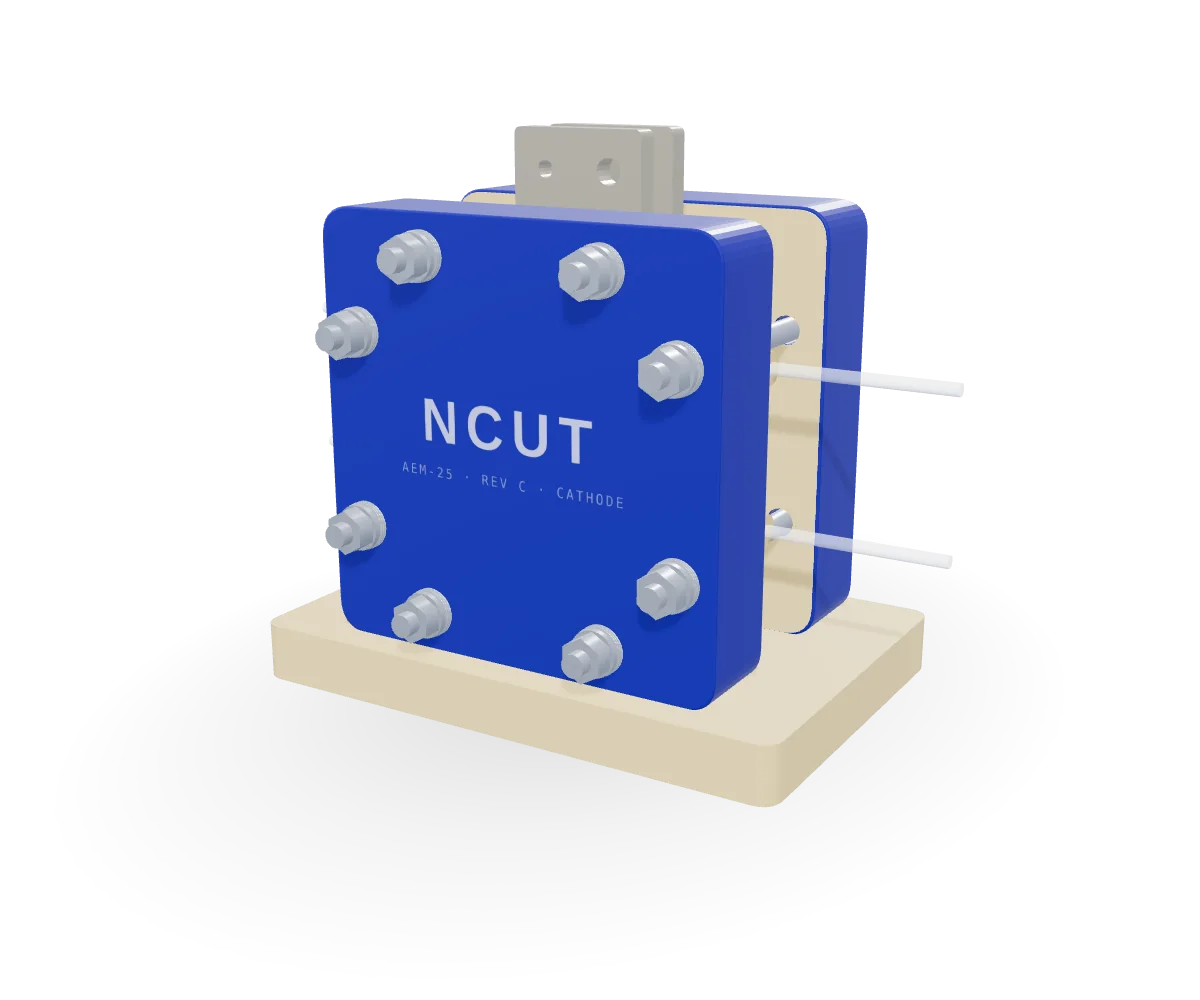
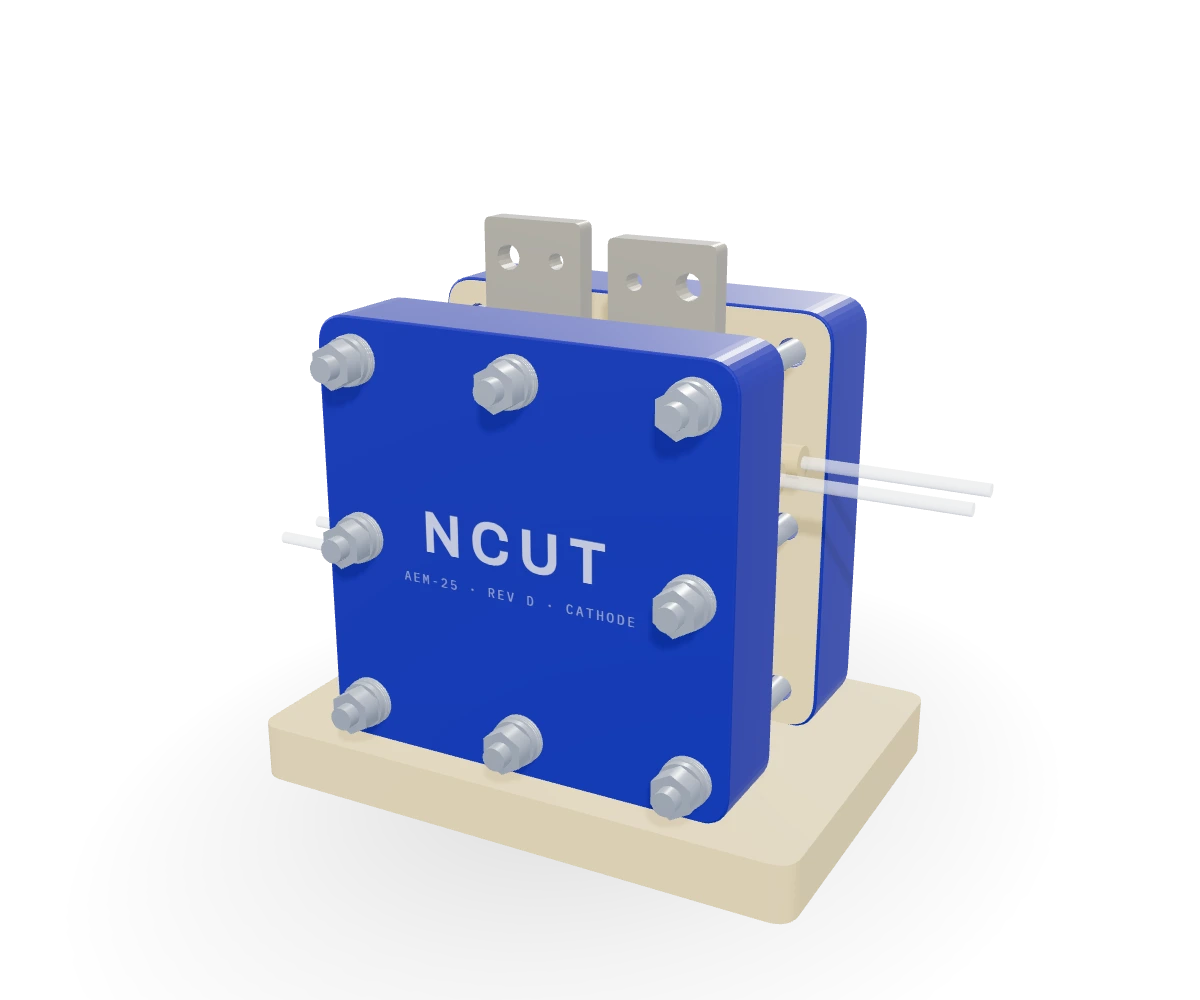
Rev D draft: tabs at opposite top corners, diagonal ports, square bolt pattern
The cathode tab moves to the top right and the anode tab to the top left,
16 mm apart. Both flow plates now run in at the lower left and out at the
upper right as seen from the cathode side, so the two flow fields are
mirror images (5 channels x 5 passes). The bolts move to the corners and
edge midpoints to clear the top edge. Figures that depend on these changes
are marked as to be recalculated.

Regenerate the hero and share images from the new model and version their
URLs so the Cloudflare image cache does not serve the old ones.

Changed region(s): [[0.2158, 0.124, 0.8017, 0.93]]

diff --git a/index.html b/index.html
@@ -10,7 +10,7 @@
 <meta property="og:title" content="AEM-25 單電池測試治具 · Single-Cell Test Fixture">
 <meta property="og:description" content="互動 3D 爆炸圖：13 個零件群組，點選即可看材料、尺寸與設計理由。Interactive 3D exploded view of 13 part groups.">
 <meta property="og:url" content="https://kungmengchien.uk/aem-25/">
-<meta property="og:image" content="https://kungmengchien.uk/aem-25/assets/img/og.png">
+<meta property="og:image" content="https://kungmengchien.uk/aem-25/assets/img/og.png?v=20261106a">
 <meta property="og:image:width" content="1200">
 <meta property="og:image:height" content="630">
 <meta name="twitter:card" content="summary_large_image">
@@ -30,22 +30,22 @@ d.lang=l==='en'?'en':'zh-Hant';if(t==='dark'||t==='light')d.dataset.theme=t;d.cl
 <link rel="preconnect" href="https://fonts.googleapis.com">
 <link rel="preconnect" href="https://fonts.gstatic.com" crossorigin>
 <link rel="stylesheet" href="https://fonts.googleapis.com/css2?family=Archivo:wdth,wght@100..125,400..700&family=IBM+Plex+Mono:wght@400;500&family=Noto+Sans+TC:wght@400;500;700&display=swap">
-<link rel="stylesheet" href="assets/css/site.css?v=20261105a">
+<link rel="stylesheet" href="assets/css/site.css?v=20261106a">
 
 <script type="importmap">
 { "imports": { "three": "./assets/vendor/three/three.module.min.js",
                "three/addons/": "./assets/vendor/three/addons/" } }
 </script>
 <link rel="modulepreload" href="assets/vendor/three/three.module.min.js">
-<script type="module" src="assets/js/app.js?v=20261105a"></script>
-<script defer src="assets/js/site.js?v=20261105a"></script>
+<script type="module" src="assets/js/app.js?v=20261106a"></script>
+<script defer src="assets/js/site.js?v=20261106a"></script>
 </head>
 <body>
 <a class="skip" href="#explore"><span class="zh">跳到爆炸圖</span><span class="en">Skip to exploded view</span></a>
 
 <header class="top">
   <div class="wrap bar">
-    <a class="brand" href="#top" aria-label="AEM-25">AEM-25<span>REV C</span></a>
+    <a class="brand" href="#top" aria-label="AEM-25">AEM-25<span>REV D</span></a>
     <nav aria-label="頁面" data-label-zh="頁面" data-label-en="Page">
       <a href="#explore"><span class="zh">爆炸圖</span><span class="en">Explore</span></a>
       <a href="#design"><span class="zh">設計</span><span class="en">Design</span></a>
@@ -66,7 +66,7 @@ d.lang=l==='en'?'en':'zh-Hant';if(t==='dark'||t==='light')d.dataset.theme=t;d.cl
 <main id="top">
   <section class="hero wrap">
     <div class="hero-txt">
-      <p class="eyebrow">AEM-25 · Rev C · 2026</p>
+      <p class="eyebrow">AEM-25 · Rev D <span class="zh">草案</span><span class="en">draft</span> · 2026</p>
       <h1><span class="zh">一片 MEA 的<br><em>25&nbsp;cm²</em> 測試治具</span><span class="en">A <em>25&nbsp;cm²</em> test fixture for one&nbsp;AEM&nbsp;cell</span></h1>
       <p class="lede zh">AEM-25 是陰離子交換膜（AEM）水電解用的單電池測試治具，在 1 M KOH、60 °C 下測一片 MEA。PTL 的壓縮量由墊片決定，電流從流道板銑出的極耳導出，一片 PEEK 把 KOH 和鋁端板隔開。</p>
       <p class="lede en">AEM-25 is a single-cell test fixture for anion exchange membrane (AEM) water electrolysis. It tests one MEA in 1 M KOH at 60 °C. Gaskets set the PTL compression, current leaves through tabs machined into the flow plates, and a PEEK sheet keeps KOH away from the aluminium end plates.</p>
@@ -81,7 +81,7 @@ d.lang=l==='en'?'en':'zh-Hant';if(t==='dark'||t==='light')d.dataset.theme=t;d.cl
       </div>
     </div>
     <figure class="hero-img">
-      <img src="assets/img/hero.webp" width="1200" height="1000" alt="AEM-25 組立後的 3D 模型：兩片藍色鋁端板夾住鎳流道板，立在底座上" data-alt-zh="AEM-25 組立後的 3D 模型：兩片藍色鋁端板夾住鎳流道板，立在底座上" data-alt-en="3D model of the assembled AEM-25: two blue aluminium end plates clamp the nickel flow plates, standing on a base" fetchpriority="high">
+      <img src="assets/img/hero.webp?v=20261106a" width="1200" height="1000" alt="AEM-25 組立後的 3D 模型：兩片藍色鋁端板夾住鎳流道板，立在底座上" data-alt-zh="AEM-25 組立後的 3D 模型：兩片藍色鋁端板夾住鎳流道板，立在底座上" data-alt-en="3D model of the assembled AEM-25: two blue aluminium end plates clamp the nickel flow plates, standing on a base" fetchpriority="high">
     </figure>
   </section>
 
@@ -136,8 +136,8 @@ d.lang=l==='en'?'en':'zh-Hant';if(t==='dark'||t==='light')d.dataset.theme=t;d.cl
         <p class="pn">AEM-25-002</p>
         <h3><span class="zh">整合式集電極耳</span><span class="en">Integrated current tabs</span></h3>
         <p class="num">2.06<u>mΩ·cm² †</u></p>
-        <p class="zh">流道板直接長出極耳，電流路徑上沒有螺栓接點。側面螺栓接點約 12–50 mΩ·cm²&nbsp;†，還會隨熱循環漂移，數據上看起來就像 MEA 在衰減。膜本身約 83 mΩ·cm²&nbsp;†。2.06 是 Rev B 用 316L 算的，Rev C 改成實心鎳，這個電阻只會更低。</p>
-        <p class="en">The tab is part of the flow plate, so no bolted joint sits in the current path. A side-bolted contact adds about 12–50 mΩ·cm²&nbsp;† and drifts with thermal cycling, which looks just like MEA degradation in the data. The membrane itself is about 83 mΩ·cm²&nbsp;†. The 2.06 figure was calculated for the 316L plate of Rev B; Rev C's solid nickel can only lower it.</p>
+        <p class="zh">流道板直接長出極耳，電流路徑上沒有螺栓接點。側面螺栓接點約 12–50 mΩ·cm²&nbsp;†，還會隨熱循環漂移，數據上看起來就像 MEA 在衰減。膜本身約 83 mΩ·cm²&nbsp;†。2.06 是 Rev B 用 316L、36 mm 寬的極耳算的；改成實心鎳後，即使 Rev D 的極耳縮成 28 mm，電阻仍會更低。</p>
+        <p class="en">The tab is part of the flow plate, so no bolted joint sits in the current path. A side-bolted contact adds about 12–50 mΩ·cm²&nbsp;† and drifts with thermal cycling, which looks just like MEA degradation in the data. The membrane itself is about 83 mΩ·cm²&nbsp;†. The 2.06 figure was calculated for the 316L plate of Rev B with a 36 mm tab; in solid nickel it stays lower even with the 28 mm tab of Rev D.</p>
         <a class="more" href="#p=fp_c" data-part="fp_c"><span class="zh">在爆炸圖看流道板</span><span class="en">See the flow plate</span> →</a>
       </article>
       <article class="card">
@@ -171,29 +171,31 @@ d.lang=l==='en'?'en':'zh-Hant';if(t==='dark'||t==='light')d.dataset.theme=t;d.cl
       <div><dt><span class="zh">MEA 區厚度</span><span class="en">MEA zone</span></dt><dd>0.558<u>mm</u></dd><p><span class="zh">兩片 10 mil 墊片加 50 µm 膜</span><span class="en">Two 10 mil gaskets plus a 50 µm membrane</span></p></div>
       <div><dt><span class="zh">PTL 面壓（估）</span><span class="en">PTL pressure (est.)</span></dt><dd><s>≈</s>0.15<u>MPa</u></dd><p><span class="zh">目標 0.18 MPa；等效模數 2.0 MPa 為假設值</span><span class="en">Target 0.18 MPa; the 2.0 MPa effective modulus is assumed</span></p></div>
       <div><dt><span class="zh">螺栓扭力</span><span class="en">Bolt torque</span></dt><dd>1.0<u>N·m</u></dd><p><span class="zh">範圍 0.8–1.2，上限 1.3</span><span class="en">Range 0.8–1.2, limit 1.3</span></p></div>
-      <div><dt><span class="zh">設計檢查</span><span class="en">Design checks</span></dt><dd>290<u><span class="zh">項</span><span class="en">items</span></u></dd><p><span class="zh">9 個 STEP 零件、80 個實體，干涉 0</span><span class="en">9 STEP parts, 80 solids, zero interference</span></p></div>
+      <div><dt><span class="zh">設計檢查</span><span class="en">Design checks</span></dt><dd>290<u><span class="zh">項</span><span class="en">items</span></u></dd><p><span class="zh">Rev C 的檢查：9 個 STEP 零件、80 個實體，干涉 0</span><span class="en">Rev C check: 9 STEP parts, 80 solids, zero interference</span></p></div>
     </dl>
   </section>
 
   <section id="specs" class="sec wrap" aria-labelledby="specs-h">
     <div class="sec-head">
       <h2 id="specs-h"><span class="zh">規格</span><span class="en">Specifications</span></h2>
-      <p class="zh">Rev C，2026-10-14。標 † 的項目沿用 Rev B 的計算值。</p>
-      <p class="en">Rev C, 2026-10-14. Items marked † carry over Rev B calculations.</p>
+      <p class="zh">Rev D 草案，2026-11-06：極耳、進出口、流道和螺栓排列已改，其餘同 Rev C（2026-10-14）。標 † 的項目沿用 Rev B 的計算值，標「待重算」的還沒有新數字。</p>
+      <p class="en">Rev D draft, 2026-11-06: the tabs, ports, flow field and bolt pattern changed; everything else is as in Rev C (2026-10-14). Items marked † carry over Rev B calculations; items marked “to be recalculated” have no new figure yet.</p>
     </div>
     <dl class="spec">
       <div><dt><span class="zh">活性面積</span><span class="en">Active area</span></dt><dd>50 × 50 mm = 25.0 cm²</dd></div>
       <div><dt>MEA</dt><dd><span class="zh">66 × 66 mm，膜厚 50 µm</span><span class="en">66 × 66 mm, 50 µm membrane</span></dd></div>
       <div><dt><span class="zh">墊片</span><span class="en">Gaskets</span></dt><dd>PTFE, 10 + 10 mil (0.254 mm × 2)<small><span class="zh">另備 9／11 mil</span><span class="en">9 and 11 mil spares</span></small></dd></div>
       <div><dt>PTL</dt><dd><span class="zh">陰陽極皆為鎳氈</span><span class="en">Nickel felt on both sides</span></dd></div>
-      <div><dt><span class="zh">流道板</span><span class="en">Flow plates</span></dt><dd><span class="zh">實心鎳，80 × 80 × 15 mm</span><span class="en">Solid nickel, 80 × 80 × 15 mm</span><small><span class="zh">4 通道蛇形 × 6 道次，24 條 1.00 × 1.00 mm，總長 328 mm</span><span class="en">4-channel serpentine × 6 passes, 24 × 1.00 × 1.00 mm, 328 mm total</span></small></dd></div>
+      <div><dt><span class="zh">流道板</span><span class="en">Flow plates</span></dt><dd><span class="zh">實心鎳，80 × 80 × 15 mm</span><span class="en">Solid nickel, 80 × 80 × 15 mm</span><small><span class="zh">5 通道蛇形 × 5 道次，25 條 1.00 × 1.00 mm，總長約 280 mm（待重算）</span><span class="en">5-channel serpentine × 5 passes, 25 × 1.00 × 1.00 mm, about 280 mm total (to be recalculated)</span></small></dd></div>
+      <div><dt><span class="zh">集電極耳</span><span class="en">Current tabs</span></dt><dd><span class="zh">28 × 34 × 6 mm，在上緣一側，陰極在右、陽極在左</span><span class="en">28 × 34 × 6 mm at one end of the top edge, cathode on the right and anode on the left</span><small><span class="zh">從陰極側看；兩個極耳相隔 16 mm</span><span class="en">Seen from the cathode side; the tabs sit 16 mm apart</span></small></dd></div>
+      <div><dt><span class="zh">進出口</span><span class="en">Ports</span></dt><dd><span class="zh">2 × 1/4-28 UNF，兩片都左下進、右上出</span><span class="en">2 × 1/4-28 UNF; both plates in at lower left, out at upper right</span><small><span class="zh">從陰極側看；兩片流道互為鏡像，是兩個零件</span><span class="en">Seen from the cathode side; the two flow fields are mirror images, so they are two parts</span></small></dd></div>
       <div><dt><span class="zh">端板</span><span class="en">End plates</span></dt><dd><span class="zh">6061-T6 鋁硬陽，110 × 110 × 25 mm，R8</span><span class="en">6061-T6 aluminium, hard-anodised, 110 × 110 × 25 mm, R8</span></dd></div>
       <div><dt><span class="zh">絕緣／化學屏障</span><span class="en">Insulation / chemical barrier</span></dt><dd>PEEK, 110 × 110 × 0.5 mm</dd></div>
-      <div><dt><span class="zh">夾持</span><span class="en">Clamping</span></dt><dd><span class="zh">8 × M6 × 100 A4-70，絕緣套管，每支 3 片碟簧</span><span class="en">8 × M6 × 100 A4-70, insulating sleeves, 3 disc springs per bolt</span><small><span class="zh">扭力 1.0 N·m（0.8–1.2，上限 1.3）</span><span class="en">Torque 1.0 N·m (0.8–1.2, limit 1.3)</span></small></dd></div>
+      <div><dt><span class="zh">夾持</span><span class="en">Clamping</span></dt><dd><span class="zh">8 × M6 × 100 A4-70，排在四角和四邊中點，絕緣套管，每支 3 片碟簧</span><span class="en">8 × M6 × 100 A4-70 at the corners and edge midpoints, insulating sleeves, 3 disc springs per bolt</span><small><span class="zh">扭力 1.0 N·m（0.8–1.2，上限 1.3）；螺栓排列改了，墊片受力分布待重算</span><span class="en">Torque 1.0 N·m (0.8–1.2, limit 1.3); the bolt pattern changed, so gasket load distribution is to be recalculated</span></small></dd></div>
       <div><dt><span class="zh">電解液</span><span class="en">Electrolyte</span></dt><dd>1 M KOH (≈ 5.4 wt.%), 60 °C</dd></div>
       <div><dt><span class="zh">加熱</span><span class="en">Heating</span></dt><dd><span class="zh">4 × 100 W 筒式加熱器 †</span><span class="en">4 × 100 W cartridge heaters †</span></dd></div>
       <div><dt><span class="zh">額定電流</span><span class="en">Rated current</span></dt><dd>50 A @ 2 A/cm² †</dd></div>
-      <div><dt><span class="zh">液相壓損</span><span class="en">Liquid pressure drop</span></dt><dd>1.52 kPa @ 60 mL/min †</dd></div>
+      <div><dt><span class="zh">液相壓損</span><span class="en">Liquid pressure drop</span></dt><dd><span class="zh">待重算</span><span class="en">To be recalculated</span><small><span class="zh">Rev B 的 6 道次為 1.52 kPa @ 60 mL/min †；5 道次等比例粗估約 1.0 kPa</span><span class="en">Rev B's six passes gave 1.52 kPa @ 60 mL/min †; scaling to five passes gives roughly 1.0 kPa</span></small></dd></div>
       <div><dt><span class="zh">壓力</span><span class="en">Pressure</span></dt><dd>≤ 1 bar(g) †<small><span class="zh">只靠墊片密封，不可加壓運轉</span><span class="en">Gasket seal only; not for pressurised operation</span></small></dd></div>
     </dl>
   </section>
@@ -201,11 +203,11 @@ d.lang=l==='en'?'en':'zh-Hant';if(t==='dark'||t==='light')d.dataset.theme=t;d.cl
 
 <footer class="foot">
   <div class="wrap">
-    <p class="zh"><b>設計階段。</b>AEM-25 尚未加工，頁面上的數字來自 2026-10-14 的 Rev C 設計文件。3D 模型由程式依設計尺寸生成；爆炸圖中 MEA 各層有加厚，才看得見。</p>
-    <p class="en"><b>Design stage.</b> AEM-25 has not been machined yet. Figures on this page come from the Rev C design documents dated 2026-10-14. The 3D model is generated in code from the design dimensions; the exploded view draws the MEA layers thicker so you can see them.</p>
+    <p class="zh"><b>設計階段。</b>AEM-25 尚未加工。頁面上的數字來自 2026-10-14 的 Rev C 設計文件；2026-11-06 的 Rev D 草案改了極耳、進出口、流道和螺栓排列，受影響的數字標「待重算」。3D 模型由程式依設計尺寸生成；爆炸圖中 MEA 各層有加厚，才看得見。</p>
+    <p class="en"><b>Design stage.</b> AEM-25 has not been machined yet. Figures on this page come from the Rev C design documents dated 2026-10-14; the Rev D draft of 2026-11-06 changed the tabs, ports, flow field and bolt pattern, and the figures it affects are marked “to be recalculated”. The 3D model is generated in code from the design dimensions; the exploded view draws the MEA layers thicker so you can see them.</p>
     <p class="zh">端板上的 NCUT 是示意字樣，不是國立勤益科技大學的官方標誌。</p>
     <p class="en">The NCUT lettering on the end plate is a placeholder, not the official mark of National Chin-Yi University of Technology.</p>
-    <p class="meta"><span class="zh">設計與網站：龔孟謙</span><span class="en">Design &amp; site: Meng-Chien Kung</span> · <a class="zh" href="https://kungmengchien.uk/">kungmengchien.uk</a><a class="en" href="https://kungmengchien.uk/en/">kungmengchien.uk</a> · <a href="https://github.com/kungmengchien0814/aem-25">GitHub</a> · 3D: <a href="https://threejs.org/">three.js</a> r160 (MIT) · <span class="zh">更新於</span><span class="en">Updated</span> 2026-11-05</p>
+    <p class="meta"><span class="zh">設計與網站：龔孟謙</span><span class="en">Design &amp; site: Meng-Chien Kung</span> · <a class="zh" href="https://kungmengchien.uk/">kungmengchien.uk</a><a class="en" href="https://kungmengchien.uk/en/">kungmengchien.uk</a> · <a href="https://github.com/kungmengchien0814/aem-25">GitHub</a> · 3D: <a href="https://threejs.org/">three.js</a> r160 (MIT) · <span class="zh">更新於</span><span class="en">Updated</span> 2026-11-06</p>
   </div>
 </footer>
 </body>

diff --git a/assets/js/app.js b/assets/js/app.js
@@ -3,7 +3,7 @@
  * 依賴：index.html 的 importmap（three、three/addons）、content.js（零件文字）。 */
 import * as THREE from 'three';
 import { OrbitControls } from 'three/addons/controls/OrbitControls.js';
-import { PARTS, UI } from './content.js?v=20261105a';
+import { PARTS, UI } from './content.js?v=20261106a';
 
 const $ = id => document.getElementById(id);
 const ZK = /Mac|iPhone|iPad/.test((navigator.userAgentData && navigator.userAgentData.platform) || navigator.platform || '') ? '⌘' : 'Ctrl';
@@ -35,14 +35,16 @@ function init(){
   renderer.shadowMap.enabled = true;
   renderer.shadowMap.type = THREE.PCFSoftShadowMap;
 
-  /* ═══ DATA: 幾何（AEM-25 Rev C，mm） ═══ */
+  /* ═══ DATA: 幾何（AEM-25 Rev D 草案，mm） ═══
+   * Rev D 相對 Rev C：極耳移到上緣一側（像「凹」去掉一邊），兩片一左一右；
+   * 進出口改成對角，流道改 5 道次；螺栓改成四角加四邊中點，讓出上緣給極耳。 */
   const MIL = 0.0254;
   const GEO = {
     ep: 110, ep_t: 25, ep_r: 8, fp: 80, fp_t: 15, ins_t: 0.5,
     gasket: 10 * MIL, mem: 0.050, mea: 66, active: 50,
-    tab_w: 36, tab_top: 74, tab_t: 6, lug: [-9, 64], sense: [9, 64],
+    tab_x: -22, tab_w: 28, tab_top: 74, tab_t: 6, lug: [-29, 64], sense: [-15, 64],
     ports_y: [-20, 20], base: [150, 100, 15],
-    bolts: [[-25,-45],[25,-45],[-45,-25],[45,-25],[-45,25],[45,25],[-25,45],[25,45]],
+    bolts: [[-45,-45],[0,-45],[45,-45],[-45,0],[45,0],[-45,45],[0,45],[45,45]],
   };
   const MEAZ = 2 * GEO.gasket + GEO.mem;                         // 0.558
   const Z = {
@@ -143,11 +145,12 @@ function init(){
   /* ── 貼圖 ── */
   const faceCv = document.createElement('canvas'); faceCv.width = faceCv.height = 1024;
   const chCv = document.createElement('canvas'); chCv.width = chCv.height = 1024;
-  const faceTex = new THREE.CanvasTexture(faceCv), chTex = new THREE.CanvasTexture(chCv);
-  [faceTex, chTex].forEach(t => { t.colorSpace = THREE.SRGBColorSpace; t.anisotropy = 4; });
-  /* 流道：4 通道並聯 × 6 道次，24 條 1 × 1 mm，節距 2 mm */
+  const chCvM = document.createElement('canvas'); chCvM.width = chCvM.height = 1024;
+  const faceTex = new THREE.CanvasTexture(faceCv), chTex = new THREE.CanvasTexture(chCv), chTexM = new THREE.CanvasTexture(chCvM);
+  [faceTex, chTex, chTexM].forEach(t => { t.colorSpace = THREE.SRGBColorSpace; t.anisotropy = 4; });
+  /* 流道：5 通道並聯 × 5 道次，25 條 1 × 1 mm，節距 2 mm。道次是奇數，出口才會在進口的對角 */
   const CH = (() => {
-    const r = [], n = 24, Pt = 2, y0 = -23, xs = 23, hs = 25, np = 4, npass = 6;
+    const r = [], np = 5, npass = 5, n = np * npass, Pt = 2, y0 = -24, xs = 23, hs = 25;
     for (let k = 0; k < n; k++) r.push([-xs, y0 + Pt*k - .5, xs, y0 + Pt*k + .5]);
     const bun = []; for (let j = 0; j < npass; j++) bun.push([y0 + Pt*np*j, y0 + Pt*(np*j + np - 1)]);
     r.push([-hs, bun[0][0] - .5, -21, bun[0][1] + .5]);
@@ -155,7 +158,8 @@ function init(){
       const lo = bun[j][0] - .5, hi = bun[j+1][1] + .5;
       r.push(j % 2 === 0 ? [xs, lo, hs, hi] : [-hs, lo, -xs, hi]);
     }
-    const last = bun[npass-1]; r.push([-hs, last[0] - .5, -21, last[1] + .5]);
+    const last = bun[npass-1];
+    r.push(npass % 2 ? [21, last[0] - .5, hs, last[1] + .5] : [-hs, last[0] - .5, -21, last[1] + .5]);
     return r;
   })();
   function drawDecals(){
@@ -167,16 +171,18 @@ function init(){
     g.fillText('NCUT', 512, 470);
     if ('letterSpacing' in g) g.letterSpacing = '6px';
     g.fillStyle = 'rgba(226,232,255,.62)'; g.font = '500 34px "IBM Plex Mono", monospace';
-    g.fillText('AEM-25 · REV C · CATHODE', 512, 590);
+    g.fillText('AEM-25 · REV D · CATHODE', 512, 590);
     if ('letterSpacing' in g) g.letterSpacing = '0px';
     faceTex.needsUpdate = true;
-    g = chCv.getContext('2d'); g.clearRect(0, 0, 1024, 1024);
     const px = v => (v + 40) / 80 * 1024, py = v => (40 - v) / 80 * 1024;
-    g.fillStyle = dark ? 'rgba(10,12,16,.62)' : 'rgba(40,36,30,.5)';
-    for (const [x0, y0, x1, y1] of CH) g.fillRect(px(x0), py(y1), px(x1) - px(x0), py(y0) - py(y1));
-    g.setLineDash([10, 8]); g.lineWidth = 3; g.strokeStyle = 'rgba(14,143,114,.75)';
-    g.strokeRect(px(-25), py(25), px(25) - px(-25), py(-25) - py(25)); g.setLineDash([]);
-    chTex.needsUpdate = true;
+    for (const [cv, s] of [[chCv, 1], [chCvM, -1]]){   // chCvM：陰極那片的鏡像流道
+      g = cv.getContext('2d'); g.clearRect(0, 0, 1024, 1024);
+      g.fillStyle = dark ? 'rgba(10,12,16,.62)' : 'rgba(40,36,30,.5)';
+      for (const [x0, y0, x1, y1] of CH){ const a = px(s * x0), b = px(s * x1); g.fillRect(Math.min(a, b), py(y1), Math.abs(b - a), py(y0) - py(y1)); }
+      g.setLineDash([10, 8]); g.lineWidth = 3; g.strokeStyle = 'rgba(14,143,114,.75)';
+      g.strokeRect(px(-25), py(25), px(25) - px(-25), py(-25) - py(25)); g.setLineDash([]);
+    }
+    chTex.needsUpdate = chTexM.needsUpdate = true;
   }
 
   /* ── 建模 ── */
@@ -196,21 +202,26 @@ function init(){
     add(p, new THREE.Mesh(extrude(sh, GEO.ins_t), matOf(p, 'peek')));
     anchor(p, id === 'ins_c' ? -38 : 38, 62, 0);
   }
-  function buildFlow(p){
+  /* 陰極那片是陽極的鏡像零件：流道和進出口左右相反，極耳在同一側。
+   * 轉 180° 裝上後，從同一側看兩片都是左下進、右上出，極耳一左一右。 */
+  function buildFlow(p, mirror){
+    const s = mirror ? -1 : 1, t0 = GEO.tab_x - GEO.tab_w/2, t1 = GEO.tab_x + GEO.tab_w/2;
     add(p, new THREE.Mesh(extrude(rrect(GEO.fp, GEO.fp, 1), GEO.fp_t), matOf(p, 'nickel')));
     const tab = new THREE.Shape();
-    tab.moveTo(-GEO.tab_w/2, 39); tab.lineTo(GEO.tab_w/2, 39); tab.lineTo(GEO.tab_w/2, GEO.tab_top - 2);
-    tab.quadraticCurveTo(GEO.tab_w/2, GEO.tab_top, GEO.tab_w/2 - 2, GEO.tab_top);
-    tab.lineTo(-GEO.tab_w/2 + 2, GEO.tab_top); tab.quadraticCurveTo(-GEO.tab_w/2, GEO.tab_top, -GEO.tab_w/2, GEO.tab_top - 2);
-    tab.lineTo(-GEO.tab_w/2, 39);
+    tab.moveTo(t0, 39); tab.lineTo(t1, 39); tab.lineTo(t1, GEO.tab_top - 2);
+    tab.quadraticCurveTo(t1, GEO.tab_top, t1 - 2, GEO.tab_top);
+    tab.lineTo(t0 + 2, GEO.tab_top); tab.quadraticCurveTo(t0, GEO.tab_top, t0, GEO.tab_top - 2);
+    tab.lineTo(t0, 39);
     tab.holes.push(hole(GEO.lug[0], GEO.lug[1], 3.3), hole(GEO.sense[0], GEO.sense[1], 2.15));
     add(p, new THREE.Mesh(extrude(tab, GEO.tab_t), matOf(p, 'nickel')));
-    decal(p, chTex, GEO.fp, GEO.fp_t/2 + .06);
-    for (const y of GEO.ports_y){ rodX(p, CYL, 'nut', 4.2, 12, -46, y, 0); rodX(p, CYL, 'tube', 1.6, 46, -75, y, 0); }
-    anchor(p, 0, 80, 0);
+    decal(p, mirror ? chTexM : chTex, GEO.fp, GEO.fp_t/2 + .06);
+    const [yIn, yOut] = GEO.ports_y;
+    rodX(p, CYL, 'nut', 4.2, 12, -46 * s, yIn, 0); rodX(p, CYL, 'tube', 1.6, 46, -75 * s, yIn, 0);
+    rodX(p, CYL, 'nut', 4.2, 12, 46 * s, yOut, 0); rodX(p, CYL, 'tube', 1.6, 46, 75 * s, yOut, 0);
+    anchor(p, GEO.tab_x, 80, 0);
   }
-  buildFlow(plate('fp_a', Z.fp_a));
-  const fpc = plate('fp_c', Z.fp_c); buildFlow(fpc); fpc.group.rotation.y = Math.PI;
+  buildFlow(plate('fp_a', Z.fp_a), false);
+  const fpc = plate('fp_c', Z.fp_c); buildFlow(fpc, true); fpc.group.rotation.y = Math.PI;
 
   /* MEA 夾層：實際合計 0.558 mm；拆開時加厚顯示 */
   const windowed = () => { const s = rrect(79.4, 79.4, 1); s.holes.push(new THREE.Path(rrect(GEO.active, GEO.active, .5).getPoints(8))); return s; };
@@ -244,7 +255,7 @@ function init(){
     rodZ(B, CYL, 'steel', 6, 1.6, x, y, Z.ep_c[1] + 2.4 + .8, nuts);
     rodZ(B, HEX, 'steel', 5.77, 5.2, x, y, Z.ep_c[1] + 4.0 + 2.6, nuts);
   }
-  anchor(B, 25, 45, Z.ep_c[1] + 9.5, nuts);
+  anchor(B, 45, -45, Z.ep_c[1] + 9.5, nuts);
 
   const baseY = -GEO.ep/2 - GEO.base[2]/2, BS = P.base; world.add(BS.group);
   { const m = add(BS, new THREE.Mesh(extrude(rrect(GEO.base[0], GEO.base[1], 6), GEO.base[2]), matOf(BS, 'base')));
@@ -566,5 +577,14 @@ function init(){
   document.body.classList.add('gl-ready');
   requestAnimationFrame(loop);
   window.AEM = { select, setExplode: v => { tw = null; setE(v); }, parts: () => Object.keys(P),
-    setView: (pos, tgt) => { userMoved = true; camTw = null; camera.position.set(...pos); controls.target.set(...tgt); needs = true; } };
+    setView: (pos, tgt) => { userMoved = true; camTw = null; camera.position.set(...pos); controls.target.set(...tgt); needs = true; },
+    /* 重新產生首圖、分享圖用：以目前視角輸出 w × h 的透明背景圖，e 是拆開程度 */
+    snap: (w, h, e = E, type = 'image/png') => {
+      const pr = renderer.getPixelRatio(), keepE = E, keepPos = camera.position.clone();
+      tw = null; setE(e); renderer.setPixelRatio(1); renderer.setSize(w, h, false);
+      camera.aspect = w / h; camera.updateProjectionMatrix(); if (!userMoved) camera.position.copy(homePos());
+      controls.update(); applyExplode(); scene.updateMatrixWorld(); renderer.render(scene, camera);
+      const url = renderer.domElement.toDataURL(type, .92);
+      setE(keepE); camera.position.copy(keepPos); renderer.setPixelRatio(pr); resize(); return url;
+    } };
 }

diff --git a/assets/js/content.js b/assets/js/content.js
@@ -1,5 +1,6 @@
-/* AEM-25 Rev C 零件資料（中／英）
+/* AEM-25 Rev D 草案零件資料（中／英）
  * 數字來源：AEM-25 設計審查與 Rev C 實作紀錄（2026-10-14）。
+ * Rev D 草案（2026-11-06）改了極耳、進出口、流道和螺栓排列，受影響的數字標「待重算」。
  * 改數字時，index.html 的「關鍵數字」與「規格」兩段也要一起改。 */
 
 export const PARTS = [
@@ -9,7 +10,7 @@ export const PARTS = [
     mat:  { zh: '6061-T6 鋁，硬陽極處理（藍）', en: '6061-T6 aluminium, hard-anodised (blue)' },
     dims: [
       { k: { zh: '外形', en: 'Size' }, v: '110 × 110 × 25 mm, R8' },
-      { k: { zh: '螺栓孔', en: 'Bolt holes' }, v: { zh: '8 個 M6，半徑 51.48 mm 圓周', en: '8 × M6 on a 51.48 mm radius' } },
+      { k: { zh: '螺栓孔', en: 'Bolt holes' }, v: { zh: '8 個 M6，四角加四邊中點（邊長 90 mm）', en: '8 × M6 at the corners and edge midpoints of a 90 mm square' } },
     ],
     desc: {
       zh: '承受八支螺栓的夾持力，筒式加熱器也裝在端板裡。鋁的導熱係數 167 W/m·K，約是 316L 的十倍，整片也輕得多。代價是鋁會被 KOH 溶解，所以端板從頭到尾不接觸電解液。',
@@ -34,15 +35,15 @@ export const PARTS = [
     mat:  { zh: '實心鎳', en: 'Solid nickel' },
     dims: [
       { k: { zh: '外形', en: 'Size' }, v: '80 × 80 × 15 mm' },
-      { k: { zh: '極耳', en: 'Tab' }, v: '36 × 34 × 6 mm' },
-      { k: { zh: '流道', en: 'Channels' }, v: { zh: '24 條 1.00 × 1.00 mm，總長 328 mm', en: '24 × 1.00 × 1.00 mm, 328 mm total' } },
-      { k: { zh: '進出口', en: 'Ports' }, v: '2 × 1/4-28 UNF' },
+      { k: { zh: '極耳', en: 'Tab' }, v: { zh: '28 × 34 × 6 mm，上緣右側', en: '28 × 34 × 6 mm, top right' } },
+      { k: { zh: '流道', en: 'Channels' }, v: { zh: '25 條 1.00 × 1.00 mm，總長約 280 mm', en: '25 × 1.00 × 1.00 mm, about 280 mm total' } },
+      { k: { zh: '進出口', en: 'Ports' }, v: { zh: '2 × 1/4-28 UNF，左下進、右上出', en: '2 × 1/4-28 UNF, in at lower left, out at upper right' } },
     ],
     desc: {
-      zh: '流道是 4 通道並聯的蛇形，走 6 個來回，電解液下進上出。極耳從板厚正中央直接銑出來：M6 孔接電流，Ø4.3 孔接四線量測的電壓線，量電壓的線上沒有電流。',
-      en: 'A four-channel serpentine runs six passes, with electrolyte entering at the bottom and leaving at the top. The current tab is machined from the mid-thickness of the plate: the M6 hole carries current and the Ø4.3 hole takes the four-wire voltage sense lead, which carries none.'
+      zh: '流道是 5 通道並聯的蛇形，走 5 個道次，電解液左下進、右上出。道次是奇數，出口才會落在進口的對角。極耳在上緣右側，從板厚正中央直接銑出來：M6 孔接電流，Ø4.3 孔接四線量測的電壓線，量電壓的線上沒有電流。',
+      en: 'A five-channel serpentine runs five passes, with electrolyte entering at the lower left and leaving at the upper right. An odd number of passes is what puts the outlet diagonally opposite the inlet. The current tab sits at the top right, machined from the mid-thickness of the plate: the M6 hole carries current and the Ø4.3 hole takes the four-wire voltage sense lead, which carries none.'
     },
-    note: { zh: '陰陽極兩片是同一個零件，這片轉 180° 裝，所以兩片極耳自動錯開 9.56 mm。', en: 'Anode and cathode plates are the same part. This one is rotated 180°, which sets the two tabs 9.56 mm apart.' },
+    note: { zh: '陰陽極兩片的流道互為鏡像，是兩個零件：從陰極側看，兩片都是左下進、右上出，極耳一左一右，相隔 16 mm。', en: 'The anode and cathode plates are mirror images, so they are two parts: seen from the cathode side both run from lower left to upper right, and their tabs sit 16 mm apart, one on each side.' },
   },
   {
     id: 'gk_c', side: 'c',
@@ -111,13 +112,14 @@ export const PARTS = [
     mat:  { zh: '實心鎳', en: 'Solid nickel' },
     dims: [
       { k: { zh: '外形', en: 'Size' }, v: '80 × 80 × 15 mm' },
-      { k: { zh: '流道', en: 'Channels' }, v: { zh: '4 通道蛇形 × 6 道次', en: '4-channel serpentine × 6 passes' } },
+      { k: { zh: '極耳', en: 'Tab' }, v: { zh: '28 × 34 × 6 mm，上緣左側（從陰極側看）', en: '28 × 34 × 6 mm, top left (seen from the cathode side)' } },
+      { k: { zh: '流道', en: 'Channels' }, v: { zh: '5 通道蛇形 × 5 道次', en: '5-channel serpentine × 5 passes' } },
     ],
     desc: {
-      zh: '和陰極流道板是同一個零件，正向安裝。Rev C 改用實心鎳，取代 Rev B 的 316L 鍍鎳（10–15 µm）。',
-      en: 'The same part as the cathode flow plate, installed the right way round. Rev C makes it from solid nickel, replacing the 316L with 10–15 µm nickel plating used in Rev B.'
+      zh: '流道和陰極那片互為鏡像，所以從同一側看，兩片都是左下進、右上出。Rev C 改用實心鎳，取代 Rev B 的 316L 鍍鎳（10–15 µm）。',
+      en: 'Its flow field mirrors the cathode plate, so seen from the same side both run from lower left to upper right. Rev C makes it from solid nickel, replacing the 316L with 10–15 µm nickel plating used in Rev B.'
     },
-    note: { zh: '60 mL/min 時液相壓損約 1.52 kPa（Rev B 計算值）。', en: 'Liquid pressure drop is about 1.52 kPa at 60 mL/min (Rev B calculation).' },
+    note: { zh: '液相壓損待重算：Rev B 的 6 道次在 60 mL/min 時約 1.52 kPa，改成 5 道次後等比例粗估約 1.0 kPa。', en: 'Liquid pressure drop is to be recalculated: Rev B’s six passes gave about 1.52 kPa at 60 mL/min, and scaling to five passes gives roughly 1.0 kPa.' },
   },
   {
     id: 'ins_a', side: 'a',
@@ -147,6 +149,7 @@ export const PARTS = [
     mat:  { zh: 'A4-70 不鏽鋼螺栓、絕緣套管、碟簧', en: 'A4-70 stainless bolts, insulating sleeves, disc springs' },
     dims: [
       { k: { zh: '螺栓', en: 'Bolts' }, v: '8 × M6 × 100' },
+      { k: { zh: '排列', en: 'Pattern' }, v: { zh: '四角加四邊中點，邊長 90 mm', en: 'Corners and edge midpoints of a 90 mm square' } },
       { k: { zh: '碟簧', en: 'Springs' }, v: { zh: '每支 3 片 DIN 2093 A 12.5 × 6.2 × 0.7，並聯', en: '3 × DIN 2093 A 12.5 × 6.2 × 0.7 per bolt, in parallel' } },
       { k: { zh: '扭力', en: 'Torque' }, v: '1.0 N·m (0.8–1.2, max 1.3)' },
       { k: { zh: '夾持高度', en: 'Stack height' }, v: '81.558 mm' },
@@ -155,7 +158,7 @@ export const PARTS = [
       zh: '扭力由墊片密封面需要的 5 MPa 反推，只要 1.0 N·m，比一般扭力扳手的量程還低，所以要用 0.3–2.0 N·m 的扭力起子。碟簧吸收升溫到 60 °C 時每支約 120 N 的軸力變化。',
       en: 'Torque is back-calculated from the 5 MPa the gasket seal needs, which gives just 1.0 N·m. That sits below the range of a typical torque wrench, so assembly uses a 0.3–2.0 N·m torque screwdriver. The disc springs absorb about 120 N of axial change per bolt when the cell heats to 60 °C.'
     },
-    note: { zh: '碟簧利用率 43 %，扭力多 25 % 時 54 %，不會被壓平。', en: 'Spring utilisation is 43 %, rising to 54 % at +25 % torque, so the springs never bottom out.' },
+    note: { zh: '碟簧利用率 43 %，扭力多 25 % 時 54 %，不會被壓平。Rev D 把螺栓改成四角加四邊中點，讓出上緣給兩個極耳；扭力和碟簧仍是 Rev C 的計算值，墊片受力分布待重算。', en: 'Spring utilisation is 43 %, rising to 54 % at +25 % torque, so the springs never bottom out. Rev D moves the bolts to the corners and edge midpoints to clear the top edge for the two tabs; torque and spring figures are still the Rev C calculation, and the gasket load distribution is to be recalculated.' },
   },
   {
     id: 'base', side: 'x',
